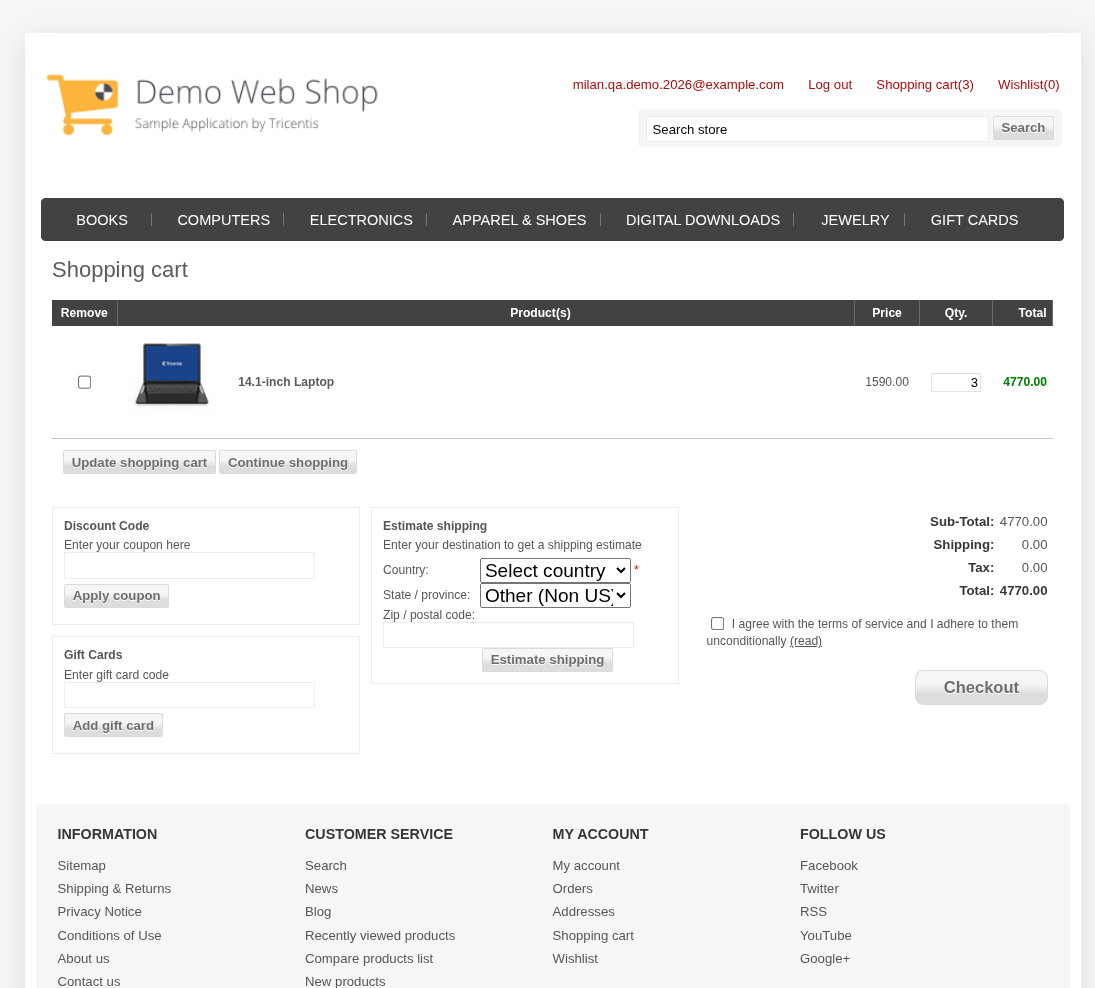
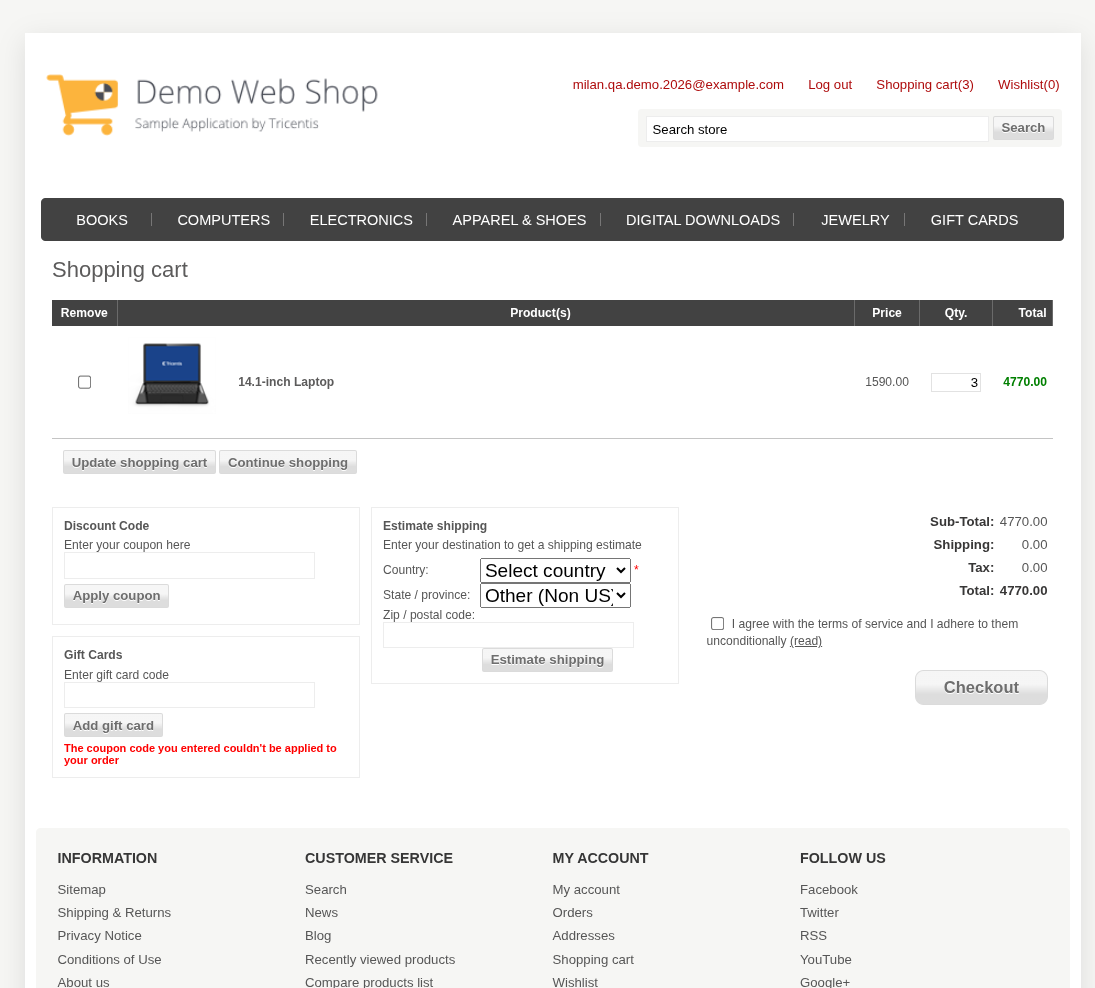
Replace cart evidence screenshots with message captures

diff --git a/docs/test-cases.md b/docs/test-cases.md
@@ -1093,9 +1093,9 @@ on exact prices must be re-checked immediately before execution and recorded as 
 | Expected Result | Invalid input never produces a negative total or an error page. Zero or negative either removes the line or is rejected with a validation message; non-numeric input is rejected with a numeric-validation message; 99999 is either accepted or rejected with a stock/quantity message. Record the exact message and resulting quantity each time. |
 | Actual Result | **Pass.** `0` removed the line and emptied the cart; the empty-cart state was shown with no error. `-1` was retested with the line present (qty 3) and behaved the same way — the line was removed, no negative total appeared, and the cart showed the empty state. `abc` was rejected and the quantity reverted to the previous value without a visible validation message. `99999` was rejected with **"The maximum quantity allowed for purchase is 10000."** and the quantity reverted. Boundary check: **10000 was accepted**, **10001 was rejected** with the same message. No negative total or error page occurred at any point. |
 | Status | **Pass** |
-| Evidence | `docs/screenshots/manual/TC-066_cart-invalid-qty.png`<br>Message text verified independently against the live store on 21 Nov 2026 |
+| Evidence | `docs/screenshots/manual/TC-066_cart-invalid-qty.png` |
 | Linked defect | — |
-| Notes | The `-1` retest was run with the line populated and reproduced the same removal behaviour as `0`. Non-numeric input reverts silently; this is recorded as a UX observation in `bug-reports.md`, not a defect, because `REQ-CART-05` only requires totals to remain valid. The saved screenshot shows the restored cart, not the messages. |
+| Notes | The `-1` retest was run with the line populated and reproduced the same removal behaviour as `0`. Non-numeric input reverts silently; this is recorded as a UX observation in `bug-reports.md`, not a defect, because `REQ-CART-05` only requires totals to remain valid. The screenshot shows the max-quantity message with the quantity retained at 3 and the totals unchanged at 4770.00. |
 
 ---
 
@@ -1115,9 +1115,9 @@ on exact prices must be re-checked immediately before execution and recorded as 
 | Expected Result | Both codes are rejected with an explicit error and the Sub-Total stays **4770.00**. After logging out and back in, the cart still contains the laptop at quantity 3 with the same total. |
 | Actual Result | **Functional assertions pass.** After both attempts the Sub-Total stayed **4770.00**, and after logging out and back in the cart still contained the laptop at qty 3. `INVALID10` was rejected with **"The coupon code you entered couldn't be applied to your order."** The **Gift Cards** field returned the identical **coupon** wording for `INVALIDGIFT`, and the message is rendered inside the gift-card block. This wording error is filed as **BUG-006**. |
 | Status | **Pass** |
-| Evidence | `docs/screenshots/manual/TC-067_cart-invalid-codes.png`<br>Both messages reproduced in a separate session on 21 Nov 2026 |
+| Evidence | `docs/screenshots/manual/TC-067_cart-invalid-codes.png` |
 | Linked defect | BUG-006 (Low/Low — gift-card error names a coupon) |
-| Notes | The functional outcomes required by `REQ-CART-06` — rejection plus unchanged totals — are met; the defect is the message content. The saved screenshot shows the post-login cart, not the messages. |
+| Notes | The functional outcomes required by `REQ-CART-06` — rejection plus unchanged totals — are met; the defect is the message content. The screenshot shows the gift-card error rendered inside the **Gift Cards** box while the Sub-Total remains 4770.00. |
 
 ---
 

diff --git a/docs/screenshots/manual/README.md b/docs/screenshots/manual/README.md
@@ -83,5 +83,5 @@ TC-015_protected-redirect.png
 | TC-063 | `TC-063_cart-duplicate-add.png` | 21 Nov 2026 |
 | TC-064 | `TC-064_cart-qty-updated.png` | 21 Nov 2026 |
 | TC-065 | `TC-065_cart-item-removed.png` | 21 Nov 2026 |
-| TC-066 | `TC-066_cart-invalid-qty.png` | 21 Nov 2026 (cart restored after invalid quantities) |
-| TC-067 | `TC-067_cart-invalid-codes.png` | 21 Nov 2026 (cart after re-login) |
+| TC-066 | `TC-066_cart-invalid-qty.png` | 21 Nov 2026 (max-quantity message; quantity retained at 3, total 4770.00) |
+| TC-067 | `TC-067_cart-invalid-codes.png` | 21 Nov 2026 (gift-card error shown inside the Gift Cards box) |

diff --git a/docs/bug-reports.md b/docs/bug-reports.md
@@ -291,7 +291,7 @@ execute and no stack trace was disclosed. A deeper security assessment is out of
 | Severity | Low |
 | Priority | Low |
 | Reproducibility | Always — 2/2 |
-| Evidence | `docs/screenshots/manual/TC-067_cart-invalid-codes.png` (post-login cart); message text verified in a separate session |
+| Evidence | `docs/screenshots/manual/TC-067_cart-invalid-codes.png` — the message is shown inside the Gift Cards box |
 | Status | Open |
 | Related items | Requirement `REQ-CART-06` · Scenario `SC-CART-11` · Test case `TC-067` |
 
